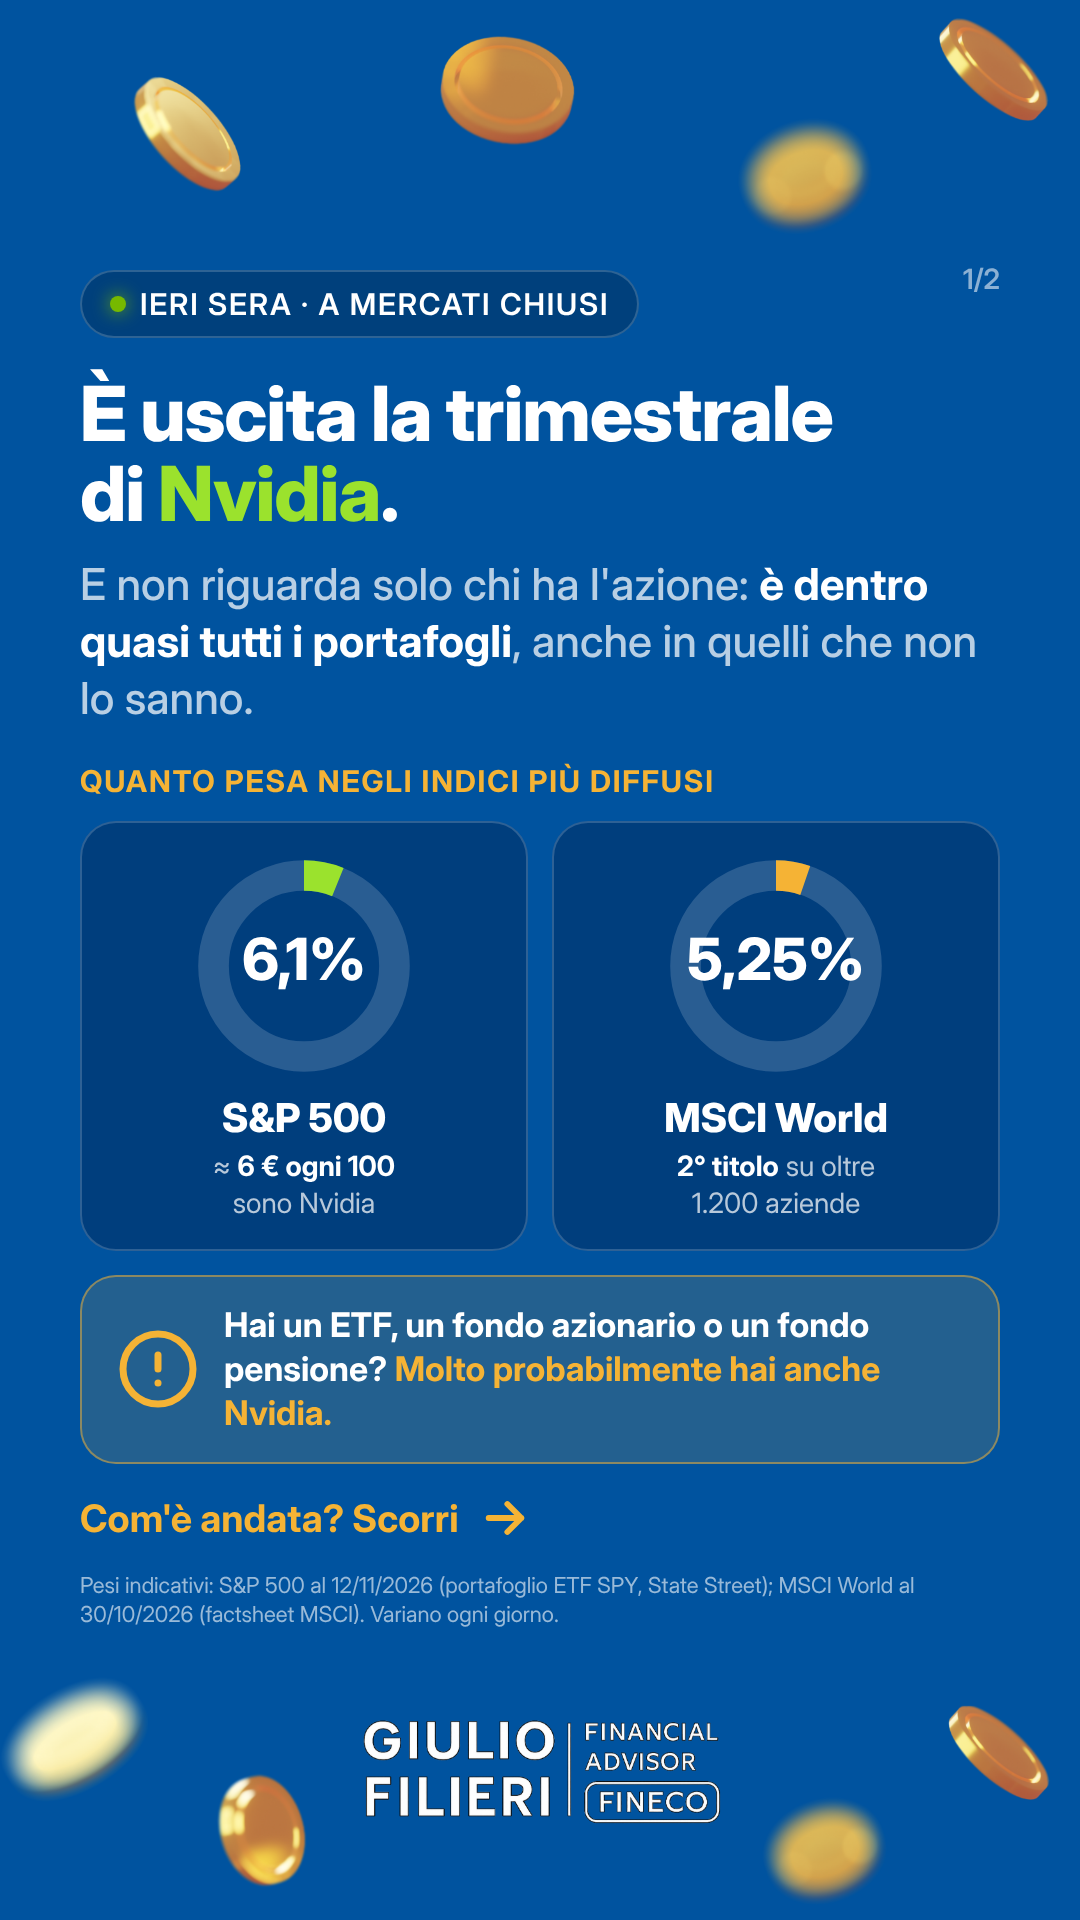
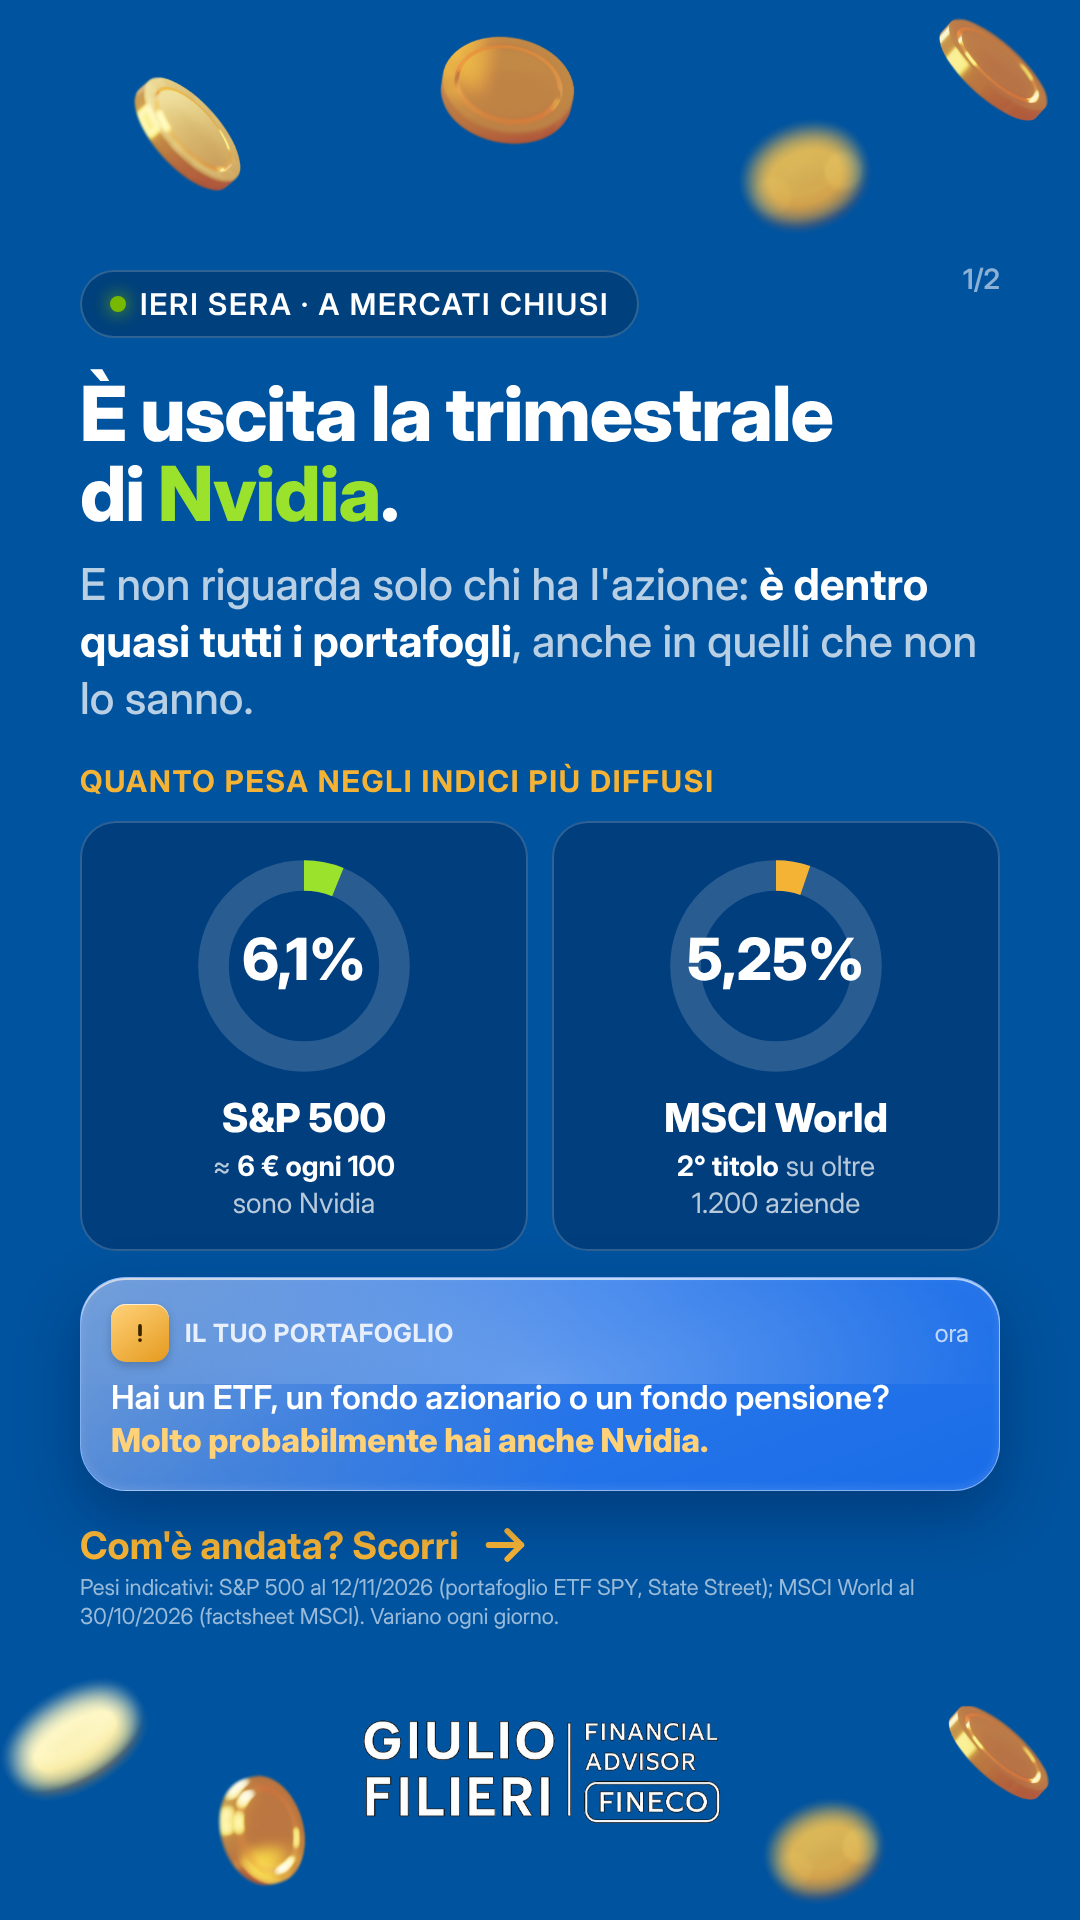
Stile liquid per i riquadri e grafico predisposto per il premarket
Claude-Session: https://claude.ai/code/session_01VXFpsKzCZQNUyBxAdjvLow

diff --git a/storie/nvidia-q3-fy27/trimestrale.html b/storie/nvidia-q3-fy27/trimestrale.html
@@ -31,6 +31,24 @@
   .swipe svg{width:56px;height:56px}
 </style>
 </head>
+<style>
+  .glass{flex-shrink:0;position:relative;border-radius:46px;padding:26px 30px 28px;overflow:hidden;
+    background:linear-gradient(160deg,rgba(255,255,255,.34) 0%,rgba(255,255,255,.16) 45%,rgba(255,255,255,.10) 100%);
+    border:1.5px solid rgba(255,255,255,.45);
+    box-shadow:0 24px 60px rgba(0,20,60,.35), inset 0 2px 0 rgba(255,255,255,.65), inset 0 -2px 10px rgba(255,255,255,.12);
+    backdrop-filter:blur(28px) saturate(180%);}
+  .glass::before{content:"";position:absolute;left:-10%;top:-60%;width:120%;height:110%;
+    background:radial-gradient(ellipse at 50% 100%,rgba(255,255,255,.28),rgba(255,255,255,0) 60%);pointer-events:none}
+  .glass::after{content:"";position:absolute;inset:0;border-radius:46px;pointer-events:none;
+    background:linear-gradient(90deg,rgba(255,214,122,.18),rgba(255,214,122,0) 55%)}
+  .nhead{display:flex;align-items:center;gap:16px;position:relative;z-index:1}
+  .nicon{width:58px;height:58px;border-radius:15px;flex:none;display:flex;align-items:center;justify-content:center;
+    background:linear-gradient(145deg,#FFD27A,#E59A1E);box-shadow:inset 0 1px 0 rgba(255,255,255,.7),0 4px 10px rgba(0,0,0,.2)}
+  .napp{font-size:25px;font-weight:700;letter-spacing:.03em;color:rgba(255,255,255,.85);text-transform:uppercase;flex:1}
+  .ntime{font-size:25px;color:rgba(255,255,255,.7)}
+  .nbody{position:relative;z-index:1;margin-top:14px;font-size:33px;font-weight:600;line-height:1.3}
+  .nbody b{font-weight:800}
+</style>
 <body>
 
 <!-- ============ 1. È USCITA LA TRIMESTRALE ============ -->
@@ -68,9 +86,9 @@
       </div>
     </div>
 
-    <div class="card" style="margin-top:24px;padding:26px 34px;background:rgba(245,179,53,.14);border-color:rgba(245,179,53,.5);display:flex;gap:24px;align-items:center">
-      <svg width="84" height="84" viewBox="0 0 24 24" fill="none" stroke="#F5B335" stroke-width="2" stroke-linecap="round" stroke-linejoin="round" style="flex:none"><circle cx="12" cy="12" r="10"/><path d="M12 8v4M12 16h.01"/></svg>
-      <div style="font-size:34px;font-weight:700;line-height:1.3">Hai un ETF, un fondo azionario o un fondo pensione? <span class="oro">Molto probabilmente hai anche Nvidia.</span></div>
+    <div class="glass" style="margin-top:26px">
+      <div class="nhead"><div class="nicon"><svg width="34" height="34" viewBox="0 0 24 24" fill="none" stroke="#3A2400" stroke-width="2.6" stroke-linecap="round"><path d="M12 7v6M12 17h.01"/></svg></div><div class="napp">Il tuo portafoglio</div><div class="ntime">ora</div></div>
+      <div class="nbody">Hai un ETF, un fondo azionario o un fondo pensione? <b style="color:#FFD27A">Molto probabilmente hai anche Nvidia.</b></div>
     </div>
 
     <div class="swipe" style="margin-top:26px">Com'è andata? Scorri
@@ -100,42 +118,63 @@
         <div style="font-size:28px;color:#9BE22D;font-weight:700">+8% sulle stime (2,48 $)</div>
       </div>
     </div>
-    <p style="font-size:32px;line-height:1.35;margin-top:20px;font-weight:500;color:var(--soft)">In parole semplici: <b style="color:#fff">ha guadagnato più di quanto gli analisti si aspettassero</b>, e prevede di crescere ancora.</p>
+    <p style="font-size:31px;line-height:1.3;margin-top:16px;font-weight:500;color:var(--soft)">In parole semplici: <b style="color:#fff">ha guadagnato più di quanto gli analisti si aspettassero</b>, e prevede di crescere ancora.</p>
 
     <div style="font-size:30px;font-weight:700;letter-spacing:.06em;text-transform:uppercase;color:var(--oro);margin-top:28px">E il titolo? La notte dopo i conti</div>
 
     <div class="card" style="margin-top:14px;padding:26px 30px 20px">
-      <svg width="860" height="390" viewBox="0 0 860 520">
-        <!-- y scale: 154 -> 440 ; 164 -> 40 ; 40px per $ -->
-        <line x1="40" y1="381" x2="840" y2="381" stroke="rgba(255,255,255,.4)" stroke-width="2" stroke-dasharray="8 8"/>
-        <text x="50" y="420" text-anchor="start" font-size="24" fill="rgba(255,255,255,.6)" font-family="Inter Display">chiusura 155,46 $</text>
-        <!-- area -->
-        <path d="M60 381 L170 381 L230 330 L300 210 L360 120 L410 101 L470 140 L540 200 L610 260 L680 330 L760 390 L820 401 L820 470 L60 470 Z" fill="rgba(155,226,45,.12)"/>
-        <path d="M60 381 L170 381 L230 330 L300 210 L360 120 L410 101 L470 140 L540 200 L610 260 L680 330 L760 390 L820 401" fill="none" stroke="#9BE22D" stroke-width="7" stroke-linejoin="round" stroke-linecap="round"/>
-        <!-- conti pubblicati -->
-        <text x="170" y="56" text-anchor="middle" font-size="26" font-weight="800" fill="#fff" font-family="Inter Display">CONTI</text>
-        <line x1="170" y1="72" x2="170" y2="470" stroke="rgba(255,255,255,.35)" stroke-width="2"/>
-        <rect x="240" y="440" width="164" opacity="0" height="44" rx="22" fill="#fff"/>
-        <text x="322" y="471" opacity="0" text-anchor="middle" font-size="24" font-weight="800" fill="#00539F" font-family="Inter Display">CONTI</text>
-        <!-- picco -->
-        <circle cx="410" cy="101" r="14" fill="#9BE22D" stroke="#fff" stroke-width="4"/>
-        <rect x="310" y="14" width="200" height="62" rx="16" fill="#76B900"/>
-        <text x="410" y="56" text-anchor="middle" font-size="34" font-weight="800" fill="#0A1A00" font-family="Inter Display">+4,8%</text>
-        <text x="530" y="108" font-size="26" font-weight="600" fill="#fff" font-family="Inter Display">≈163 $</text>
-        <!-- fine -->
-        <circle cx="820" cy="401" r="14" fill="#F5B335" stroke="#fff" stroke-width="4"/>
-        <rect x="700" y="290" width="150" height="56" rx="16" fill="#F5B335"/>
-        <text x="775" y="328" text-anchor="middle" font-size="30" font-weight="800" fill="#3A2400" font-family="Inter Display">≈ −0,5%</text>
-      </svg>
-      <div class="small">Andamento schematico, non in scala temporale. Contrattazioni after-hours del 17/11/2026.</div>
+      <svg id="chart" width="860" height="320" viewBox="0 0 860 520"></svg>
+      <div class="small" id="chartnote">Andamento schematico, non in scala temporale. Contrattazioni after-hours del 17/11/2026.</div>
     </div>
 
-    <div class="card" style="margin-top:20px;padding:24px 34px;background:rgba(245,179,53,.14);border-color:rgba(245,179,53,.5)">
-      <div style="font-size:33px;font-weight:700;line-height:1.3">📌 Prima l'entusiasmo, poi la prudenza: i conti erano ottimi, ma <span class="oro">il mercato li dava già per scontati</span>.</div>
+    <div class="glass" style="margin-top:20px;padding:22px 30px 24px">
+      <div class="nhead"><div class="nicon"><svg width="32" height="32" viewBox="0 0 24 24" fill="none" stroke="#3A2400" stroke-width="2.4" stroke-linecap="round" stroke-linejoin="round"><path d="M3 17l6-6 4 4 8-8"/><path d="M15 7h6v6"/></svg></div><div class="napp">Mercati · Nvidia</div><div class="ntime">ora</div></div>
+      <div class="nbody">Prima l'entusiasmo, poi la prudenza: i conti erano ottimi, ma <b style="color:#FFD27A">il mercato li dava già per scontati</b>.</div>
     </div>
 
     <div class="small" style="margin-top:auto;font-size:22px">Fonti: Nvidia; LSEG; INDmoney; TradingKey; Reuters. Rilevazioni after-hours in orari diversi. Non è consulenza.</div>
   </div>
 </section>
+<script>
+/* === DATO PREMARKET: compilare quando disponibile, es. {pct:+1.2, price:157.3, ora:"11:30"} === */
+const PM = null;
+
+(function(){
+  const svg=document.getElementById('chart'), CLOSE=155.46, Y0=381, K=40;
+  const y=pr=>Math.max(60,Math.min(470,Y0-(pr-CLOSE)*K));
+  const sx = PM ? 0.70 : 1;               // comprime l'after-hours se c'è il premarket
+  const ah=[[60,381],[170,381],[230,330],[300,210],[360,120],[410,101],[470,140],[540,200],[610,260],[680,330],[760,390],[820,401]]
+           .map(([x,yy])=>[60+(x-60)*sx,yy]);
+  const pts=ah.map(p=>p.join(' ')).join(' L');
+  const last=ah[ah.length-1], peak=ah[5], conti=ah[1];
+  let h=`<line x1="40" y1="381" x2="840" y2="381" stroke="rgba(255,255,255,.4)" stroke-width="2" stroke-dasharray="8 8"/>
+  <text x="50" y="420" font-size="24" fill="rgba(255,255,255,.6)" font-family="Inter Display">chiusura 155,46 $</text>
+  <path d="M${pts} L${last[0]} 470 L60 470 Z" fill="rgba(155,226,45,.12)"/>
+  <path d="M${pts}" fill="none" stroke="#9BE22D" stroke-width="7" stroke-linejoin="round" stroke-linecap="round"/>
+  <text x="${conti[0]}" y="56" text-anchor="middle" font-size="26" font-weight="800" fill="#fff" font-family="Inter Display">CONTI</text>
+  <line x1="${conti[0]}" y1="72" x2="${conti[0]}" y2="470" stroke="rgba(255,255,255,.35)" stroke-width="2"/>
+  <circle cx="${peak[0]}" cy="${peak[1]}" r="14" fill="#9BE22D" stroke="#fff" stroke-width="4"/>
+  <rect x="${peak[0]-100}" y="14" width="200" height="62" rx="16" fill="#76B900"/>
+  <text x="${peak[0]}" y="56" text-anchor="middle" font-size="34" font-weight="800" fill="#0A1A00" font-family="Inter Display">+4,8%</text>
+  <text x="${peak[0]+30}" y="108" font-size="26" font-weight="600" fill="#fff" font-family="Inter Display">≈163 $</text>
+  <circle cx="${last[0]}" cy="${last[1]}" r="14" fill="#F5B335" stroke="#fff" stroke-width="4"/>
+  <rect x="${last[0]-120}" y="290" width="150" height="56" rx="16" fill="#F5B335"/>
+  <text x="${last[0]-45}" y="328" text-anchor="middle" font-size="30" font-weight="800" fill="#3A2400" font-family="Inter Display">≈ −0,5%</text>`;
+  if(PM){
+    const px=760, py=y(CLOSE*(1+PM.pct/100)), up=PM.pct>=0, col=up?'#9BE22D':'#FF7A6B';
+    const pctTxt=(up?'+':'−')+Math.abs(PM.pct).toFixed(1).replace('.',',')+'%';
+    h+=`<rect x="640" y="20" width="200" height="450" rx="22" fill="rgba(255,255,255,.07)"/>
+    <text x="740" y="56" text-anchor="middle" font-size="24" font-weight="800" fill="#FFD27A" font-family="Inter Display">PREMARKET</text>
+    <text x="740" y="86" text-anchor="middle" font-size="22" fill="rgba(255,255,255,.65)" font-family="Inter Display">18/11 · ${PM.ora}</text>
+    <path d="M${last[0]} ${last[1]} L${px} ${py}" stroke="${col}" stroke-width="5" stroke-dasharray="4 12" stroke-linecap="round"/>
+    <circle cx="${px}" cy="${py}" r="16" fill="${col}" stroke="#fff" stroke-width="4"/>
+    <rect x="${px-82}" y="${py<200?py+30:py-92}" width="164" height="62" rx="16" fill="${col}"/>
+    <text x="${px}" y="${(py<200?py+30:py-92)+43}" text-anchor="middle" font-size="34" font-weight="800" fill="#0A1A00" font-family="Inter Display">${pctTxt}</text>
+    <text x="${px}" y="${(py<200?py+30:py-92)+(py<200?96:-14)}" text-anchor="middle" font-size="24" font-weight="600" fill="#fff" font-family="Inter Display">≈${PM.price.toFixed(2).replace('.',',')} $</text>`;
+    document.getElementById('chartnote').textContent='Andamento schematico, non in scala temporale. After-hours 17/11 e premarket 18/11/2026 (variazioni sulla chiusura del 17/11).';
+  }
+  svg.innerHTML=h;
+})();
+</script>
 </body>
 </html>
